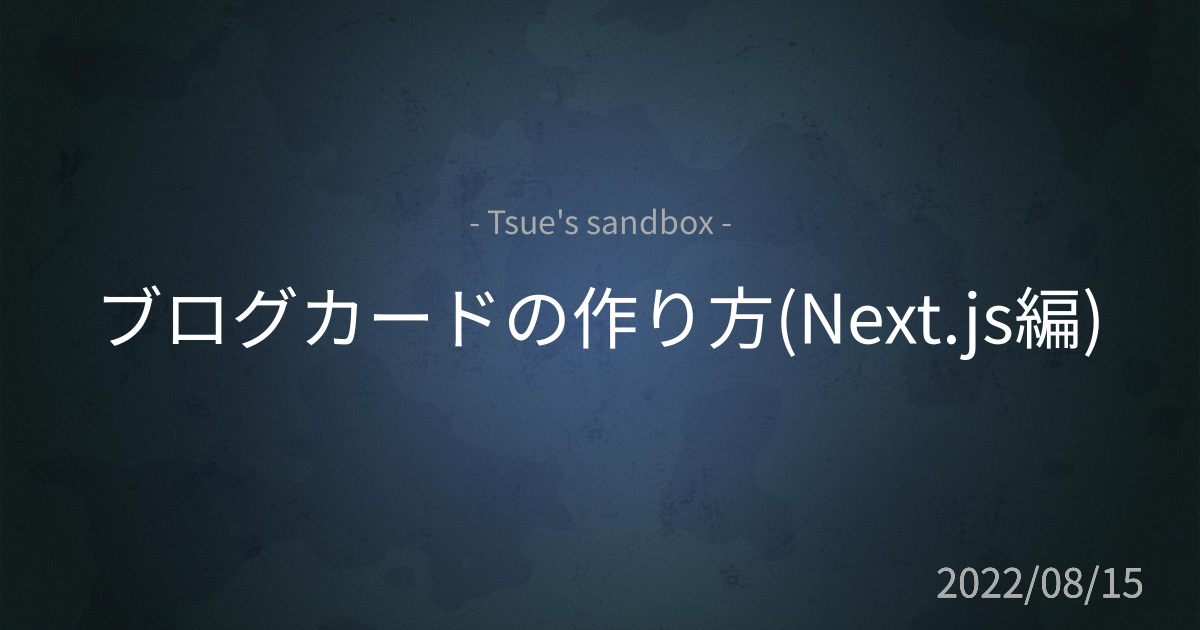
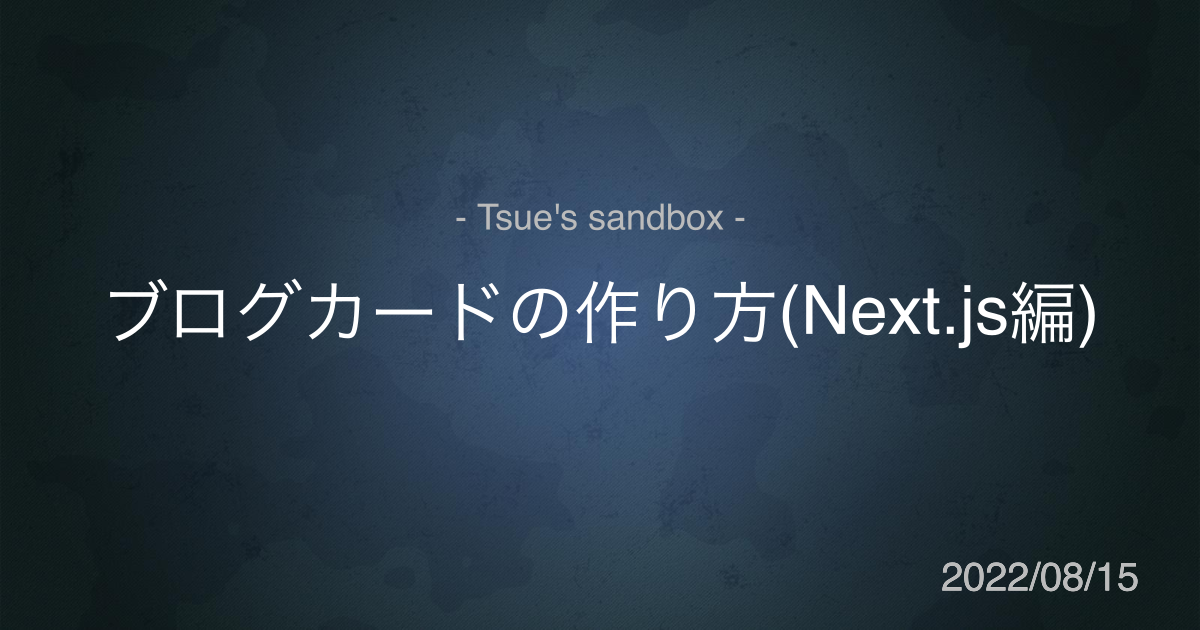
Develop/rss (#14)
* css

* rss

* add link

Changed region(s): [[0.0925, 0.4524, 0.925, 0.573], [0.7708, 0.8746, 0.9558, 0.9651], [0.4008, 0.3016, 0.6167, 0.3921]]

diff --git a/src/lib/feed.ts b/src/lib/feed.ts
@@ -1,0 +1,68 @@
+import fs from 'fs';
+
+import { Feed } from 'feed';
+import matter from 'gray-matter';
+
+import { FrontMatterType } from 'src/type-def/postsType';
+
+function generatedRssFeed(): void {
+  const baseUrl = process.env.NEXT_PUBLIC_BASE_URL || '';
+  const date = new Date();
+  // author の情報を書き換える
+  const author = {
+    name: 'Tsue',
+    email: 'akihide.tsue@gmail.com',
+    link: 'https://tsue-sandbox.vercel.app/',
+  };
+
+  // デフォルトになる feed の情報
+  const feed = new Feed({
+    title: process.env.NEXT_PUBLIC_BASE_NAME || '',
+    description: process.env.NEXT_PUBLIC_BASE_DISC,
+    id: baseUrl,
+    link: baseUrl,
+    language: 'ja',
+    image: `${baseUrl}/favicon.png`, // image には OGP 画像でなくファビコンを指定
+    copyright: `All rights reserved ${date.getFullYear()}, ${author.name}`,
+    updated: date,
+    feedLinks: {
+      rss2: `${baseUrl}/rss/feed.xml`,
+      json: `${baseUrl}/rss/feed.json`,
+      atom: `${baseUrl}/rss/atom.xml`,
+    },
+    author: author,
+  });
+
+  const files = fs.readdirSync('src/posts');
+  const posts = files.map((fileName) => {
+    const slug = fileName.replace(/\.md$/, '');
+    const fileContent = fs.readFileSync(`src/posts/${fileName}`, 'utf-8');
+    const { data, content } = matter(fileContent);
+    return {
+      frontMatter: data as FrontMatterType,
+      slug,
+      content,
+    };
+  });
+
+  posts.forEach((post) => {
+    // post のプロパティ情報は使用しているオブジェクトの形式に合わせる
+    const url = `${baseUrl}/posts/${post.slug}`;
+    feed.addItem({
+      title: post.frontMatter.title,
+      description: post.frontMatter.description,
+      id: url,
+      link: url,
+      content: post.content,
+      date: new Date(post.frontMatter.date),
+    });
+  });
+
+  // フィード情報を public/rss 配下にディレクトリを作って保存
+  fs.mkdirSync('./public/rss', { recursive: true });
+  fs.writeFileSync('./public/rss/feed.xml', feed.rss2());
+  fs.writeFileSync('./public/rss/atom.xml', feed.atom1());
+  fs.writeFileSync('./public/rss/feed.json', feed.json1());
+}
+
+export default generatedRssFeed;

diff --git a/src/pages/api/posts/[slug].ts b/src/pages/api/posts/[slug].ts
@@ -1,6 +1,6 @@
 /* eslint-disable */
 // @ts-nocheck
-//ローカル用：http://localhost:3000/api/posts/dinamic-ogp
+//ローカル用：http://localhost:3000/api/posts/dynamic-ogp
 import { NextApiRequest, NextApiResponse } from 'next';
 import { createCanvas, registerFont, loadImage } from 'canvas';
 
@@ -33,12 +33,12 @@ const createOgp = async (req: NextApiRequest, res: NextApiResponse): Promise<voi
   context.textBaseline = 'middle';
   context.fillText(data.title, 600, 300);
 
-  context.fillStyle = '#aaa';
+  context.fillStyle = '#bbb';
   context.font = '40px NotoSans';
   context.fillText(data.date.replace(/-/g, '/'), 1040, 580);
 
-  context.font = '32px NotoSans';
-  context.fillText("- Tsue's sandbox -", 600, 220);
+  context.font = '36px NotoSans';
+  context.fillText("- Tsue's sandbox -", 600, 200);
 
   const buffer = canvas.toBuffer();
 

diff --git a/src/components/page_header/PageHeader.tsx b/src/components/page_header/PageHeader.tsx
@@ -2,6 +2,8 @@ import { FC } from 'react';
 
 import Link from 'next/link';
 
+import FeesIcon from 'public/images/icons/feed_icon.svg';
+
 import styles from './PageHeader.module.scss';
 
 const PageHeader: FC = ({}) => {
@@ -13,6 +15,14 @@ const PageHeader: FC = ({}) => {
             <h1 className={styles.logo}>{"津江's sandbox"}</h1>
           </a>
         </Link>
+
+        <div className={styles.icon_wrapper}>
+          <Link href={`/rss/feed.xml`} passHref>
+            <a target="_blank">
+              <FeesIcon width={24} height={24} className={styles.icon} />
+            </a>
+          </Link>
+        </div>
       </div>
     </div>
   );

diff --git a/src/pages/index.tsx b/src/pages/index.tsx
@@ -8,6 +8,7 @@ import matter from 'gray-matter';
 
 import ArticleLayoutSelect from '@components/article_layout_select/ArticleLayoutSelect';
 import ArticleLink from '@components/article_link/ArticleLink';
+import generatedRssFeed from 'src/lib/feed';
 import { PostType } from 'src/type-def/postsType';
 
 import styles from '@styles/index.module.scss';
@@ -25,6 +26,8 @@ export const getStaticProps = () => {
   });
 
   const sortedPosts = posts.sort((postA, postB) => (new Date(postA.frontMatter.date as Date) > new Date(postB.frontMatter.date as Date) ? -1 : 1));
+
+  generatedRssFeed();
 
   return {
     props: {

diff --git a/src/components/common_head/CommonHead.tsx b/src/components/common_head/CommonHead.tsx
@@ -34,8 +34,8 @@ const CommonHead: FC = ({}) => {
       <meta property="twitter:description" content={metaDescription} />
 
       {process.env.NEXT_PUBLIC_APP_ENV !== 'production' && <meta name="robots" content="noindex" />}
-      <link rel="icon" href="public/images/icons/apple-touch-icon.png" />
-      <link rel="apple-touch-icon" sizes="180x180" href="public/images/icons/apple-touch-icon.png" />
+      <link rel="icon" href="/images/icons/apple-touch-icon.png" />
+      <link rel="apple-touch-icon" sizes="180x180" href="/images/icons/apple-touch-icon.png" />
     </Head>
   );
 };

diff --git a/src/utils/server/ogpUtils.ts b/src/utils/server/ogpUtils.ts
@@ -71,12 +71,12 @@ const createOgp = async (slug: string): Promise<void> => {
   context.font = '40px NotoSans';
   context.fillText(data.date.replace(/-/g, '/'), 1040, 580);
 
-  context.fillStyle = '#aaa';
+  context.fillStyle = '#bbb';
   context.font = '40px NotoSans';
   context.fillText(data.date.replace(/-/g, '/'), 1040, 580);
 
-  context.font = '32px NotoSans';
-  context.fillText("- Tsue's sandbox -", 600, 220);
+  context.font = '36px NotoSans';
+  context.fillText("- Tsue's sandbox -", 600, 200);
 
   context.font = 'bold 68px NotoSans';
   context.fillStyle = '#fff';

diff --git a/src/pages/posts/[slug].tsx b/src/pages/posts/[slug].tsx
@@ -33,7 +33,7 @@ export const getStaticProps: ({
   const file = fs.readFileSync(`src/posts/${params.slug}.md`, 'utf-8');
   const { data, content } = matter(file);
 
-  //OGPローカル確認:http://localhost:3000/api/posts/dinamic-ogp
+  //OGPローカル確認:http://localhost:3000/api/posts/dynamic-ogp
   void createOgp(params.slug);
 
   //ブログカード生成

diff --git a/src/components/page_header/PageHeader.module.scss b/src/components/page_header/PageHeader.module.scss
@@ -14,6 +14,7 @@
 .header_inner {
   display: flex;
   align-items: center;
+  justify-content: space-between;
   width: 100%;
   max-width: 1000px;
   height: 40px;
@@ -28,4 +29,12 @@
 .logo {
   font-size: 2rem;
   font-weight: 900;
+}
+
+.icon_wrapper {
+  display: block;
+}
+
+.icon {
+  cursor: pointer;
 }

diff --git a/src/components/blog_card/BlogCard.module.scss b/src/components/blog_card/BlogCard.module.scss
@@ -85,7 +85,12 @@
     z-index: 2;
 
     @include media(sm) {
-      width: 132px;
+      width: 140px;
+      height: auto;
+    }
+
+    @include media(ssm) {
+      width: 112px;
       height: auto;
     }
   }

diff --git a/src/posts/blog-card.md b/src/posts/blog-card.md
@@ -114,9 +114,9 @@ https://github.com/Akihide-Tsue/tsue_sandbox/blob/main/src/components/blog_card/
 
 BlogCard に表示する meta 情報のスタイルについて、  
 2 行以上だと...で text を省略する css は下記の通りなのですが、  
-stylelint が自動で  `display: -webkit-box; → display: box;`  
-と書き換えており、解決に時間を取られました。  
-困る。
+stylelint が自動で `display: -webkit-box; → display: box;`  
+と書き換えており、悩みました。  
+`/* stylelint-disable-next-line */` にて解決。
 
 ```css:BlogCard.module.scss
 .meta_title {
